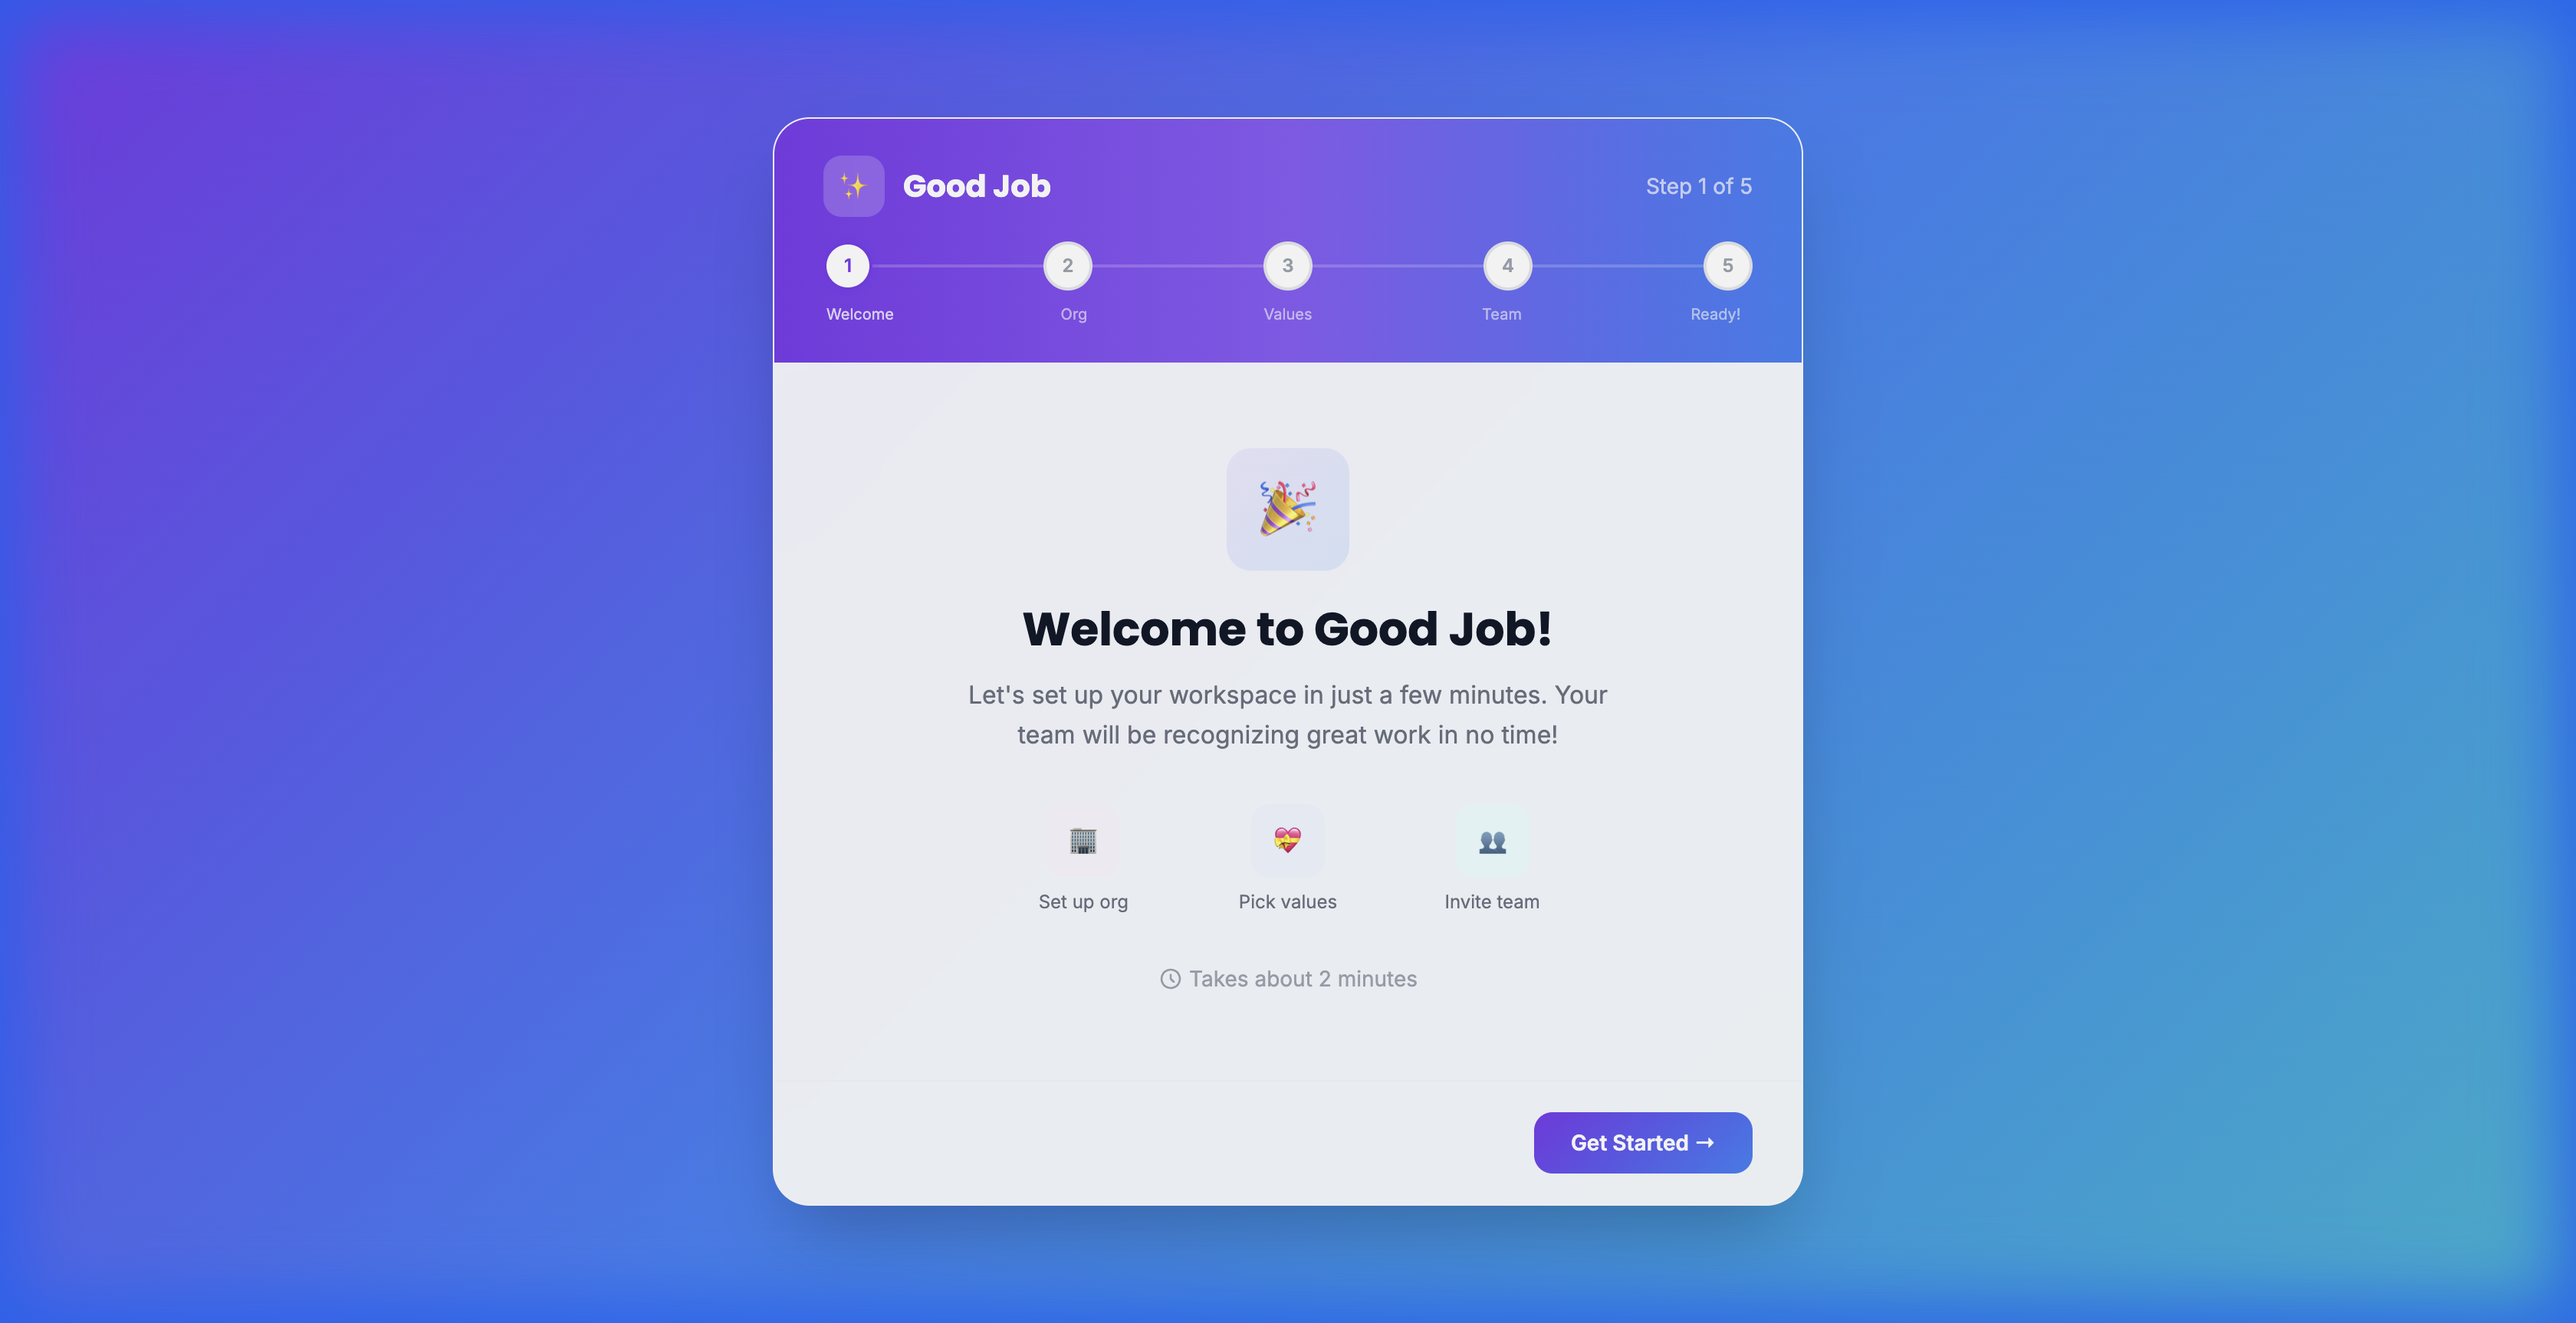
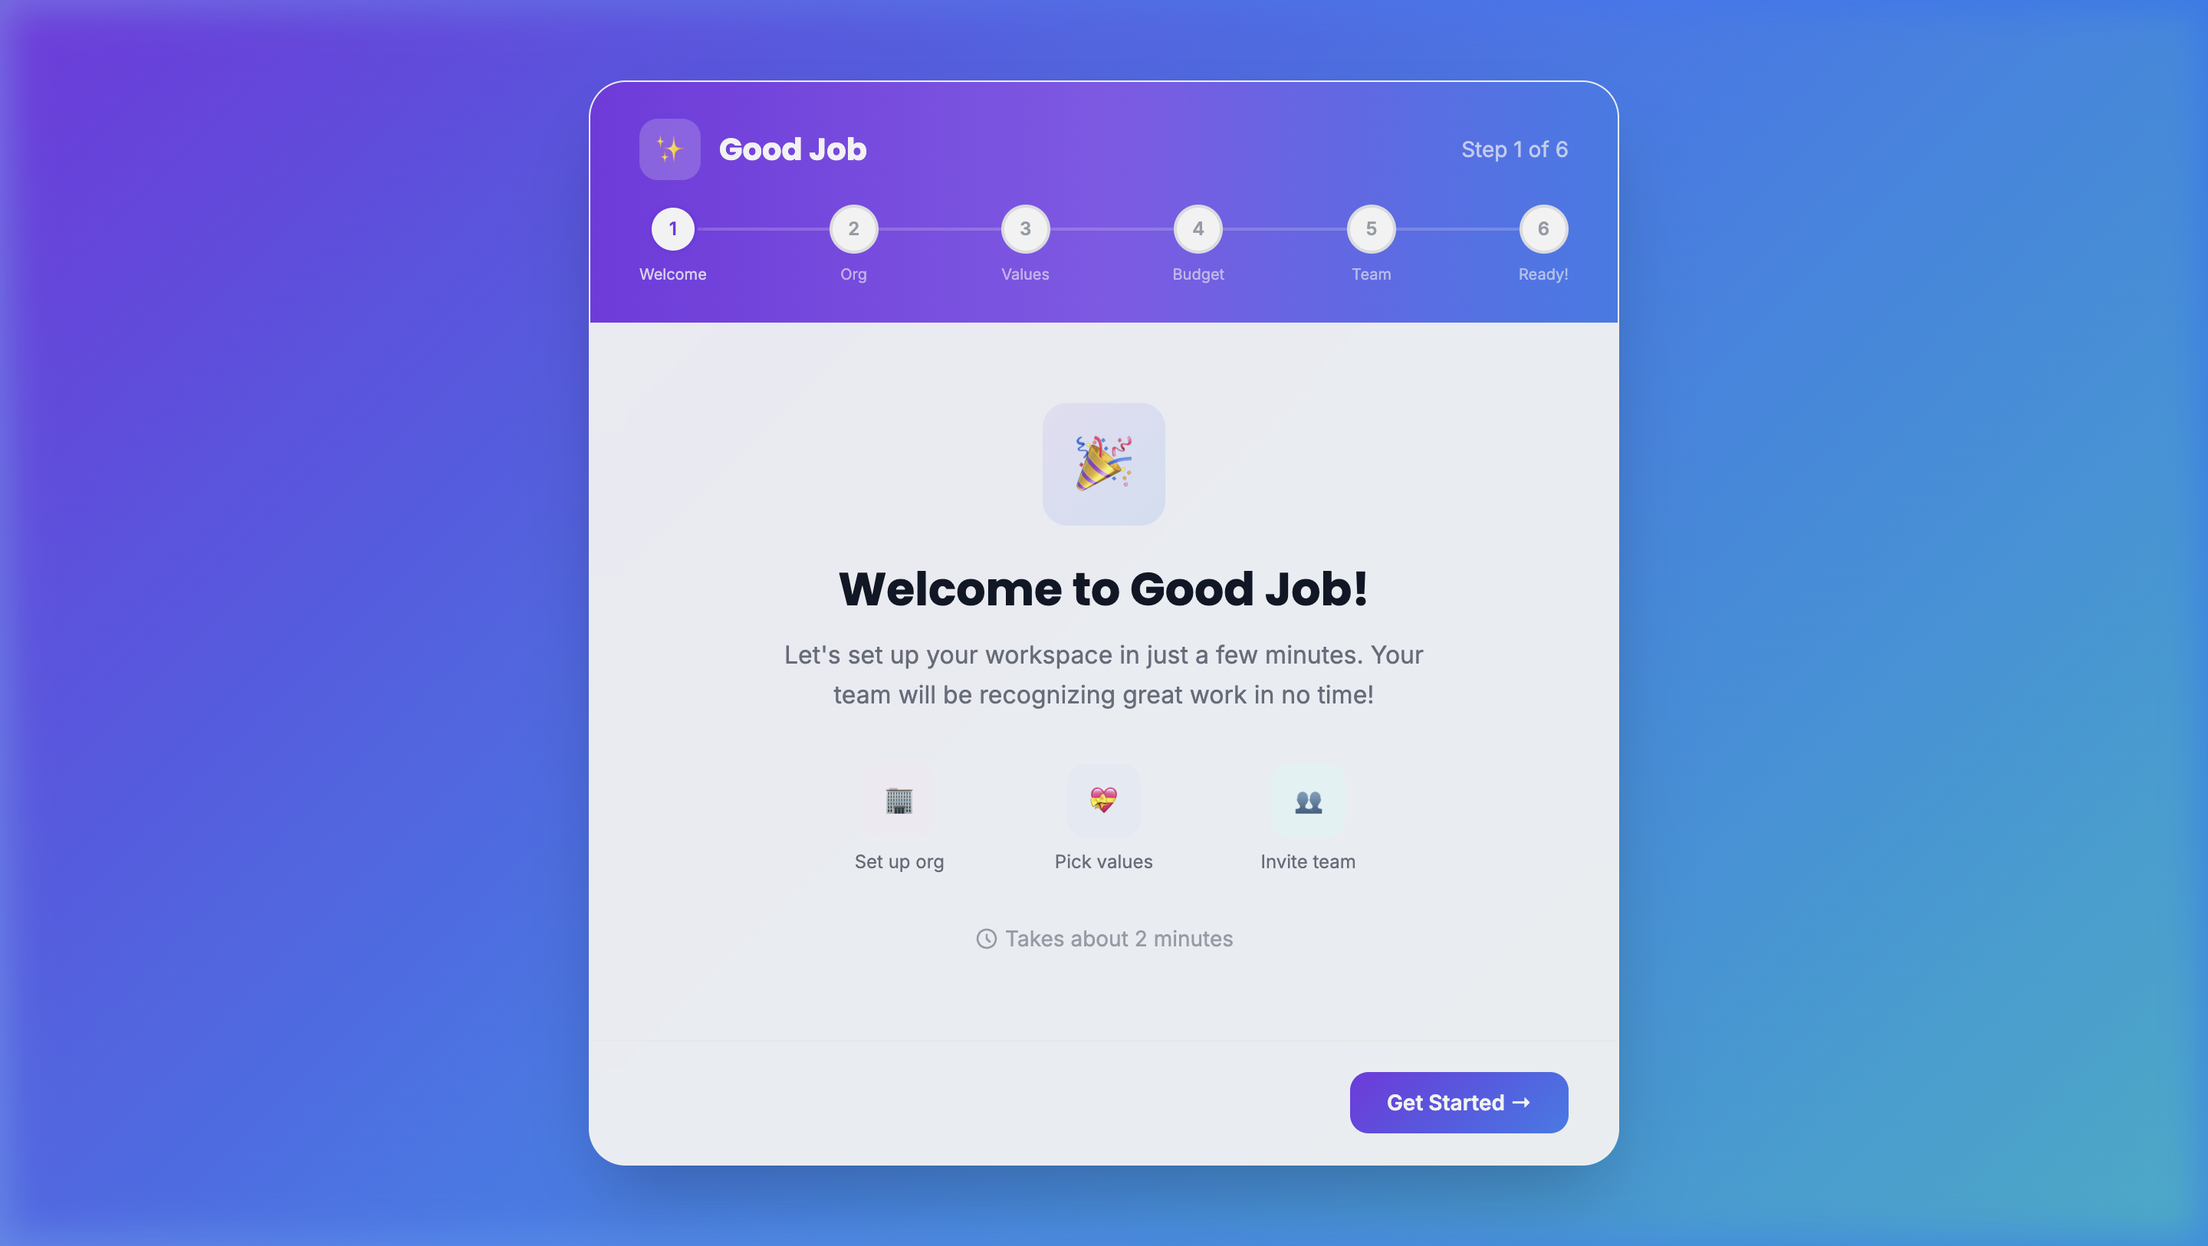
docs: update onboarding prototypes with Points & Budget step

diff --git a/designs/ui/prototypes/02-onboarding/index.html b/designs/ui/prototypes/02-onboarding/index.html
@@ -242,51 +242,53 @@
                     </div>
                     <span class="font-display text-white text-xl font-bold">Good Job</span>
                 </div>
-                <span class="text-white/70 text-sm" id="stepCounter">Step 1 of 5</span>
+                <span class="text-white/70 text-sm" id="stepCounter">Step 1 of 6</span>
             </div>
 
             <!-- Progress Bar -->
             <div class="mt-4 relative">
-                <div class="flex items-center justify-between relative z-10">
-                    <div class="progress-step active" data-step="1">
+                <div class="flex items-start justify-between relative z-10">
+                    <div class="progress-step active flex flex-col items-center" data-step="1">
                         <div
                             class="step-circle w-8 h-8 rounded-full flex items-center justify-center text-xs font-semibold bg-white">
                             1</div>
+                        <span class="progress-label text-white/80 text-[10px] mt-1.5">Welcome</span>
                     </div>
-                    <div class="progress-step" data-step="2">
+                    <div class="progress-step flex flex-col items-center" data-step="2">
                         <div
                             class="step-circle w-8 h-8 rounded-full flex items-center justify-center text-xs font-semibold bg-white">
                             2</div>
+                        <span class="progress-label text-white/60 text-[10px] mt-1.5">Org</span>
                     </div>
-                    <div class="progress-step" data-step="3">
+                    <div class="progress-step flex flex-col items-center" data-step="3">
                         <div
                             class="step-circle w-8 h-8 rounded-full flex items-center justify-center text-xs font-semibold bg-white">
                             3</div>
+                        <span class="progress-label text-white/60 text-[10px] mt-1.5">Values</span>
                     </div>
-                    <div class="progress-step" data-step="4">
+                    <div class="progress-step flex flex-col items-center" data-step="4">
                         <div
                             class="step-circle w-8 h-8 rounded-full flex items-center justify-center text-xs font-semibold bg-white">
                             4</div>
+                        <span class="progress-label text-white/60 text-[10px] mt-1.5">Budget</span>
                     </div>
-                    <div class="progress-step" data-step="5">
+                    <div class="progress-step flex flex-col items-center" data-step="5">
                         <div
                             class="step-circle w-8 h-8 rounded-full flex items-center justify-center text-xs font-semibold bg-white">
                             5</div>
+                        <span class="progress-label text-white/60 text-[10px] mt-1.5">Team</span>
+                    </div>
+                    <div class="progress-step flex flex-col items-center" data-step="6">
+                        <div
+                            class="step-circle w-8 h-8 rounded-full flex items-center justify-center text-xs font-semibold bg-white">
+                            6</div>
+                        <span class="progress-label text-white/60 text-[10px] mt-1.5">Ready!</span>
                     </div>
                 </div>
                 <!-- Progress line behind circles -->
                 <div class="absolute top-4 left-4 right-4 h-0.5 bg-white/20 -translate-y-1/2"></div>
                 <div class="progress-bar-fill absolute top-4 left-4 h-0.5 bg-white -translate-y-1/2" style="width: 0%"
                     id="progressFill"></div>
-
-                <!-- Labels (hidden on mobile) -->
-                <div class="progress-labels flex justify-between mt-2">
-                    <span class="text-white/80 text-[10px] text-center w-12">Welcome</span>
-                    <span class="text-white/60 text-[10px] text-center w-12">Org</span>
-                    <span class="text-white/60 text-[10px] text-center w-12">Values</span>
-                    <span class="text-white/60 text-[10px] text-center w-12">Team</span>
-                    <span class="text-white/60 text-[10px] text-center w-12">Ready!</span>
-                </div>
             </div>
         </div>
 
@@ -511,8 +513,79 @@
                 </div>
             </div>
 
-            <!-- STEP 4: Invite Team -->
+            <!-- STEP 4: Points & Budget -->
             <div class="step-slide" id="step4">
+                <div class="animate-fade-up">
+                    <h2 class="font-display text-xl md:text-2xl font-bold text-gray-900 mb-1">Points & Budget</h2>
+                    <p class="text-gray-500 text-sm mb-5">Configure how many points each member can give per month and
+                        the range per recognition.</p>
+
+                    <div class="space-y-5">
+                        <!-- Monthly Budget -->
+                        <div>
+                            <label class="block text-sm font-medium text-gray-700 mb-1.5">Monthly Giving Budget</label>
+                            <p class="text-xs text-gray-400 mb-2">Points each member receives to give out every month
+                            </p>
+                            <div class="flex items-center gap-3">
+                                <input type="number" value="200" min="10" max="10000"
+                                    class="w-32 px-4 py-3 rounded-xl border border-gray-200 text-sm font-semibold text-center"
+                                    id="monthlyBudget">
+                                <span class="text-sm text-gray-500">points / member / month</span>
+                            </div>
+                            <div class="flex gap-2 mt-2">
+                                <button onclick="document.getElementById('monthlyBudget').value=100"
+                                    class="px-3 py-1 bg-gray-100 rounded-lg text-xs text-gray-600 hover:bg-gray-200 transition-colors">100</button>
+                                <button onclick="document.getElementById('monthlyBudget').value=200"
+                                    class="px-3 py-1 bg-primary-100 text-primary-700 rounded-lg text-xs font-medium">200</button>
+                                <button onclick="document.getElementById('monthlyBudget').value=500"
+                                    class="px-3 py-1 bg-gray-100 rounded-lg text-xs text-gray-600 hover:bg-gray-200 transition-colors">500</button>
+                                <button onclick="document.getElementById('monthlyBudget').value=1000"
+                                    class="px-3 py-1 bg-gray-100 rounded-lg text-xs text-gray-600 hover:bg-gray-200 transition-colors">1000</button>
+                            </div>
+                        </div>
+
+                        <hr class="border-gray-100">
+
+                        <!-- Points Range -->
+                        <div>
+                            <label class="block text-sm font-medium text-gray-700 mb-1.5">Points per Recognition</label>
+                            <p class="text-xs text-gray-400 mb-2">Min and max points a member can give in a single kudos
+                            </p>
+                            <div class="grid grid-cols-2 gap-4">
+                                <div>
+                                    <label class="block text-xs text-gray-500 mb-1">Minimum</label>
+                                    <input type="number" value="1" min="1" max="100"
+                                        class="w-full px-4 py-3 rounded-xl border border-gray-200 text-sm text-center">
+                                </div>
+                                <div>
+                                    <label class="block text-xs text-gray-500 mb-1">Maximum</label>
+                                    <input type="number" value="100" min="1" max="1000"
+                                        class="w-full px-4 py-3 rounded-xl border border-gray-200 text-sm text-center">
+                                </div>
+                            </div>
+                        </div>
+
+                        <!-- Preview Card -->
+                        <div class="bg-gradient-to-r from-primary-50 to-accent-50 rounded-xl p-4">
+                            <div class="flex items-start gap-3">
+                                <div
+                                    class="w-8 h-8 bg-white rounded-lg flex items-center justify-center flex-shrink-0 shadow-sm">
+                                    <span class="text-sm">💡</span>
+                                </div>
+                                <div>
+                                    <p class="text-sm font-medium text-gray-700">Preview</p>
+                                    <p class="text-xs text-gray-500 mt-1">Each member gets <strong
+                                            class="text-primary-600">200 points/month</strong> and can give <strong
+                                            class="text-primary-600">1–100 points</strong> per recognition.</p>
+                                </div>
+                            </div>
+                        </div>
+                    </div>
+                </div>
+            </div>
+
+            <!-- STEP 5: Invite Team -->
+            <div class="step-slide" id="step5">
                 <div class="animate-fade-up">
                     <h2 class="font-display text-xl md:text-2xl font-bold text-gray-900 mb-1">Invite Your Team</h2>
                     <p class="text-gray-500 text-sm mb-5">Add teammates by email. You can always invite more people
@@ -561,8 +634,8 @@
                 </div>
             </div>
 
-            <!-- STEP 5: Ready / Demo Mode -->
-            <div class="step-slide" id="step5">
+            <!-- STEP 6: Ready / Demo Mode -->
+            <div class="step-slide" id="step6">
                 <div class="animate-fade-up text-center py-2">
                     <div class="relative w-16 h-16 mx-auto mb-3">
                         <div
@@ -629,6 +702,14 @@
                                 <span class="font-medium text-gray-900">3 selected</span>
                             </div>
                             <div class="flex items-center justify-between text-sm">
+                                <span class="text-gray-500">Monthly Budget</span>
+                                <span class="font-medium text-primary-600">200 pts/member</span>
+                            </div>
+                            <div class="flex items-center justify-between text-sm">
+                                <span class="text-gray-500">Points per Kudo</span>
+                                <span class="font-medium text-gray-900">1 – 100 pts</span>
+                            </div>
+                            <div class="flex items-center justify-between text-sm">
                                 <span class="text-gray-500">Team Members</span>
                                 <span class="font-medium text-gray-900">3 invited</span>
                             </div>
@@ -663,7 +744,7 @@
 
     <script>
         let currentStep = 1;
-        const totalSteps = 5;
+        const totalSteps = 6;
 
         function updateUI() {
             // Update step counter
